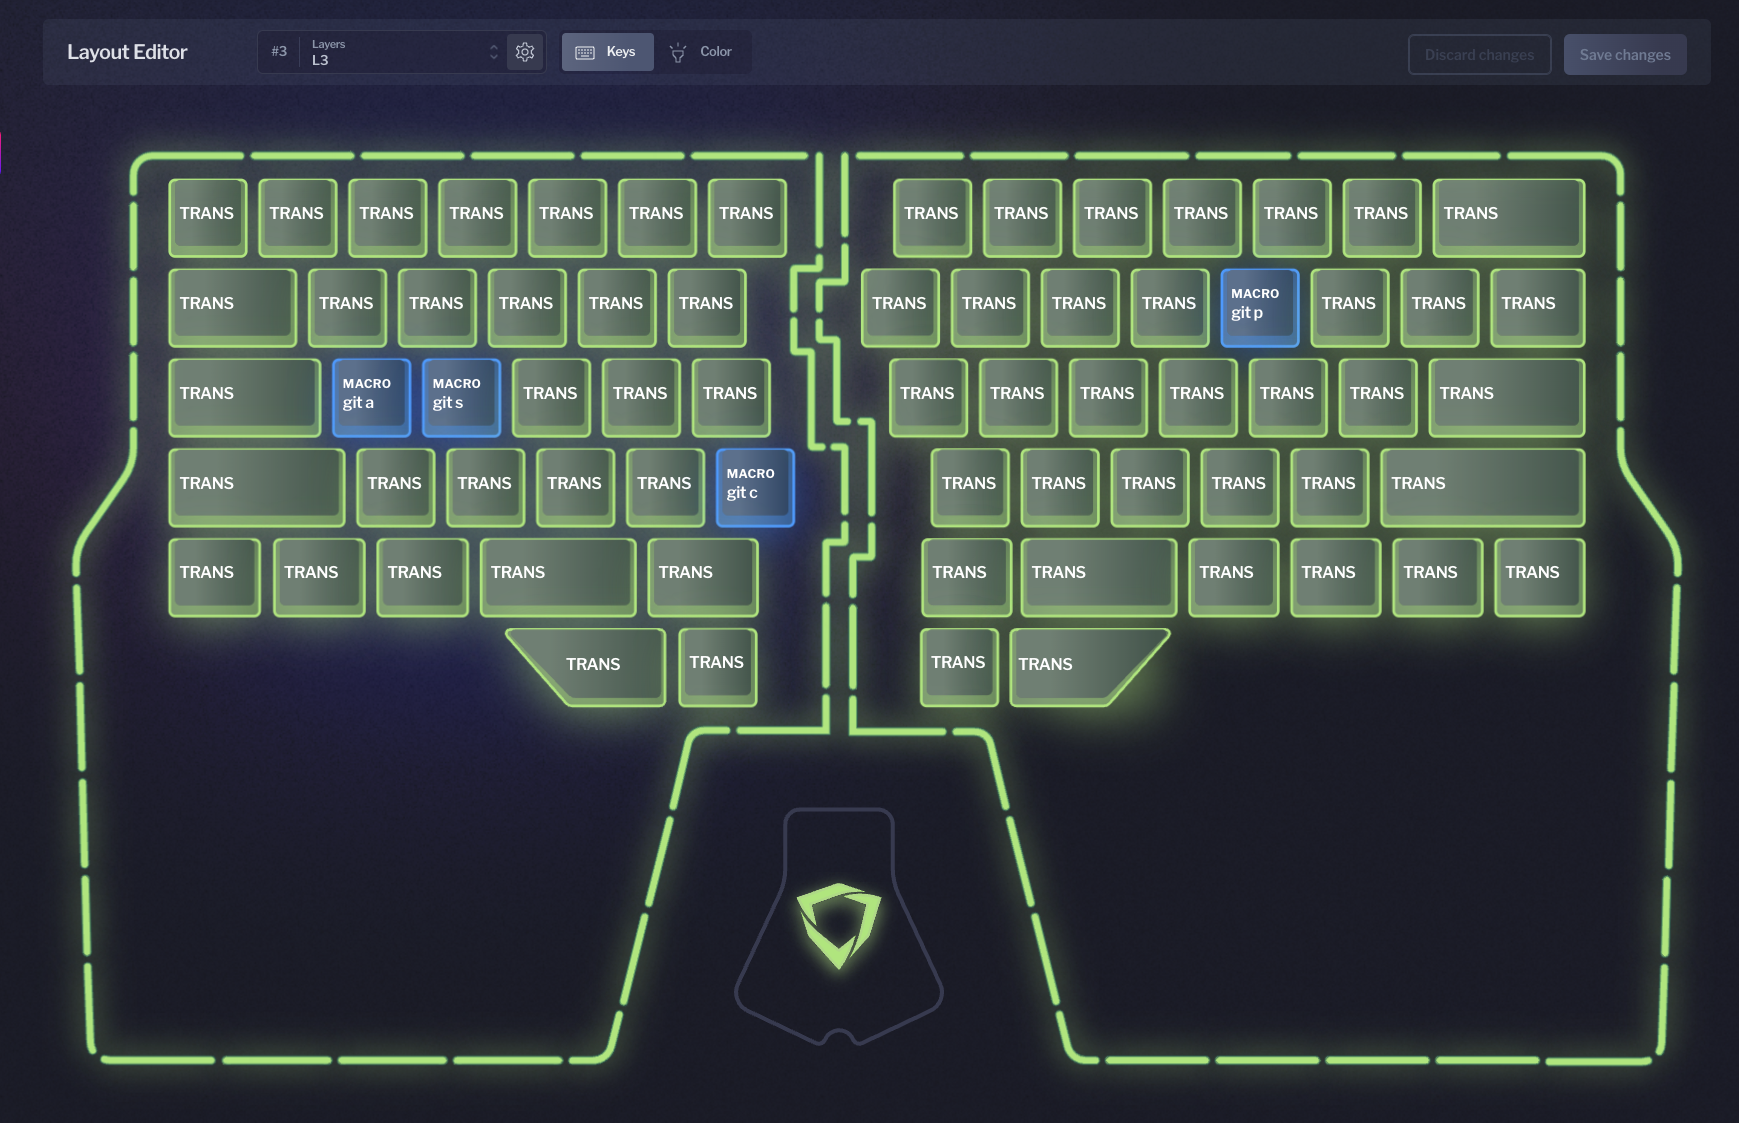
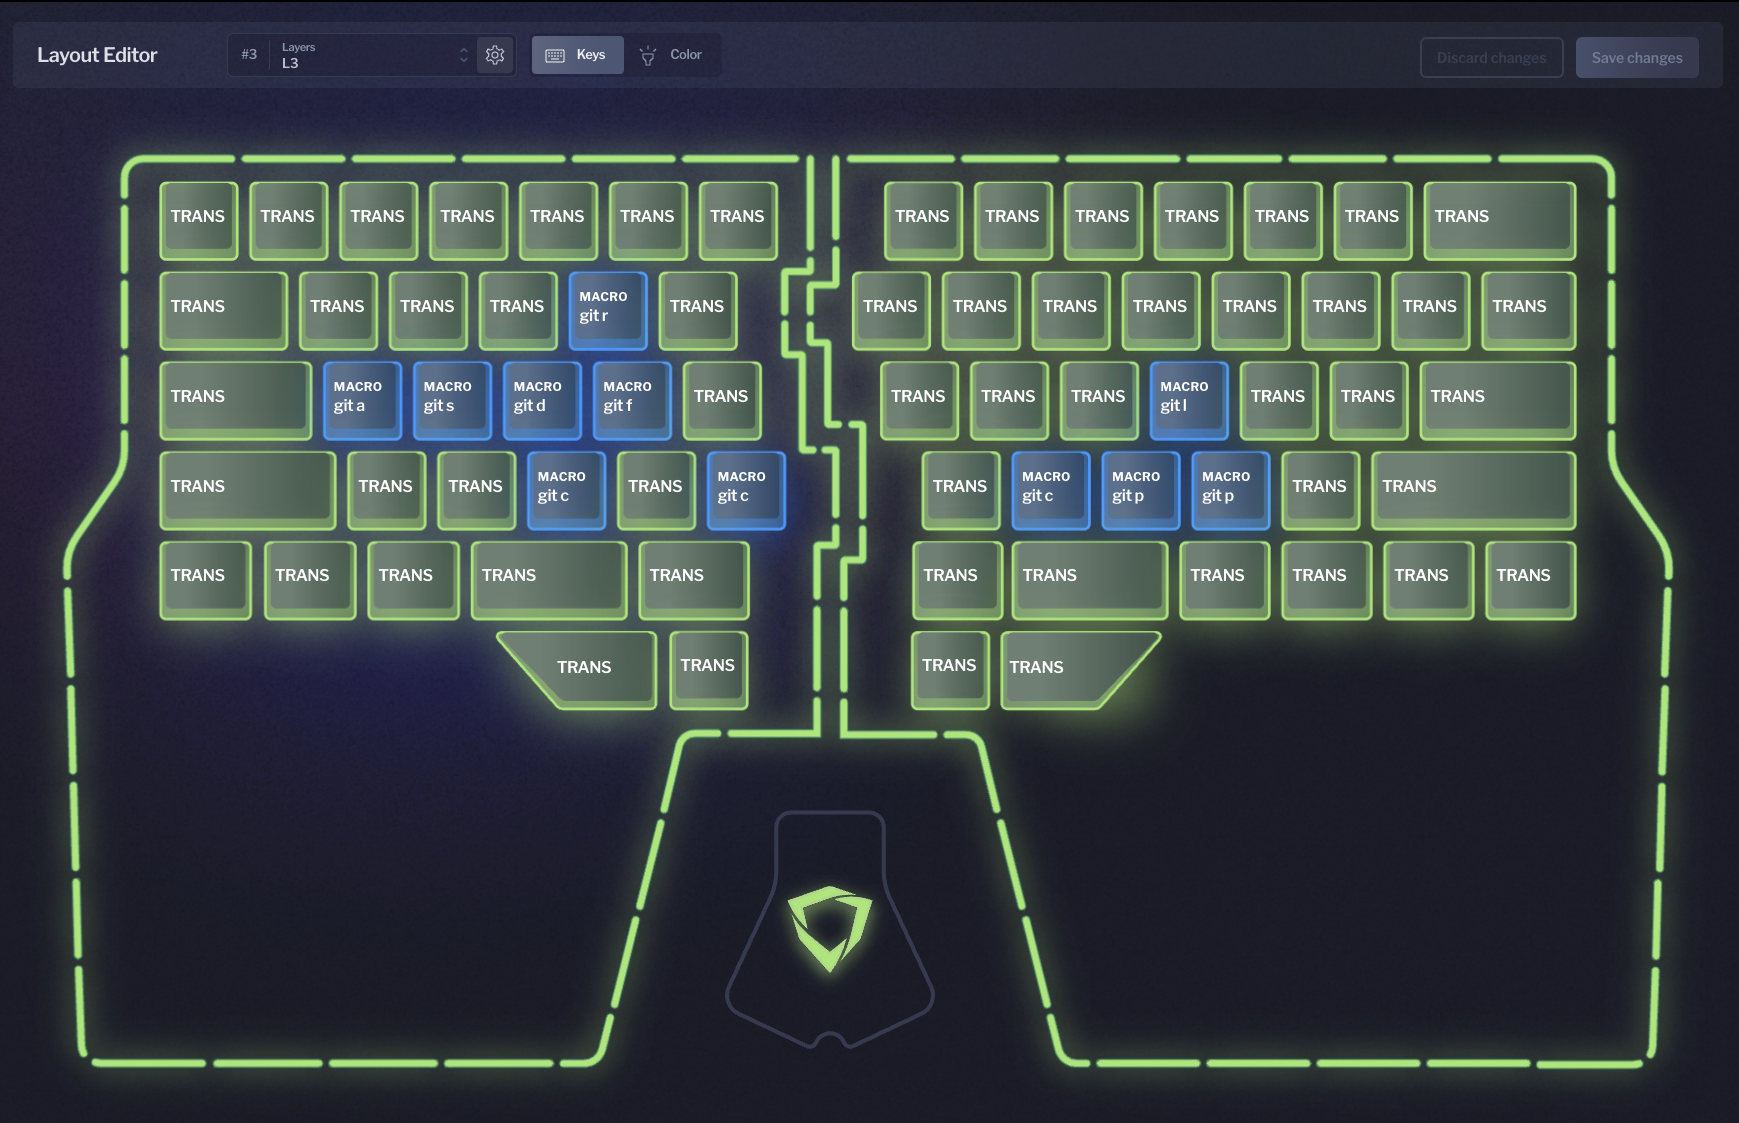
layer 3 updated

diff --git a/README.md b/README.md
@@ -5,3 +5,17 @@ My [Dygma](https://dygma.com) Raise keyboard layers are set up as follows:
 ![Layer 1](l1.png "Layer 1")
 ![Layer 2](l2.png "Layer 2")
 ![Layer 3](l3.png "Layer 3")
+
+| Layer 3 key | Macro |
+| --- | --- |
+| c   | `git clone `|
+| b   | `git checkout -b ` |
+| m   | `git checkout main` |
+| <   | `git pull` |
+| >   | `git push ` |
+| a   | `git add --all && git commit -m "` |
+| s   | `git status` |
+| d   | `git diff ` |
+| f   | `git fetch` |
+| l   | `git log` |
+| r   | `git rebase main` |
